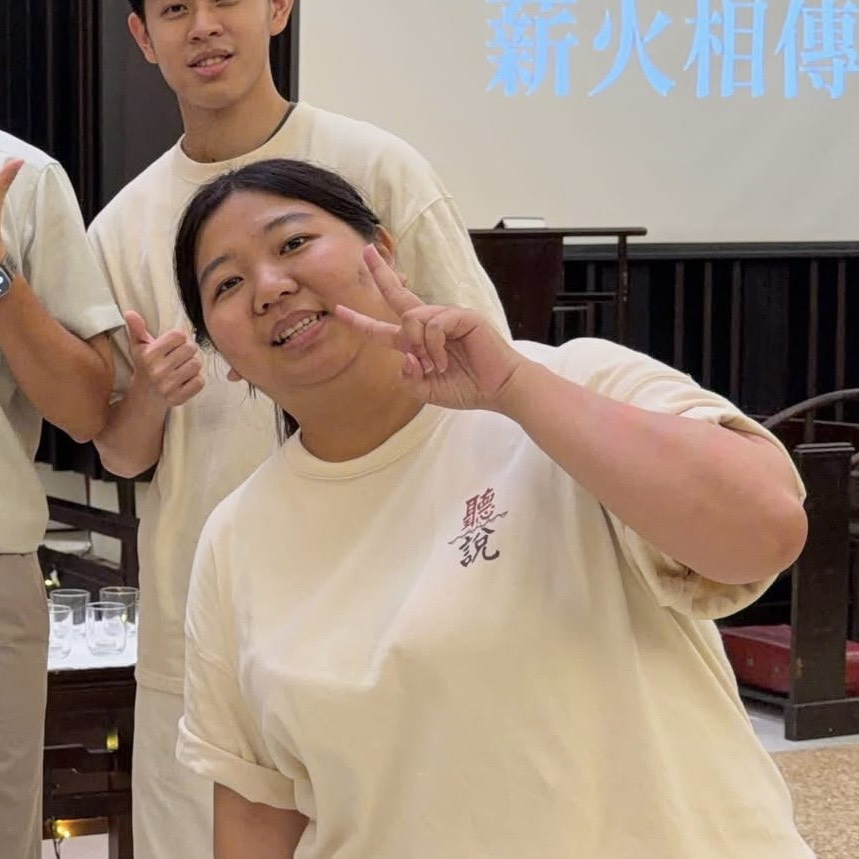
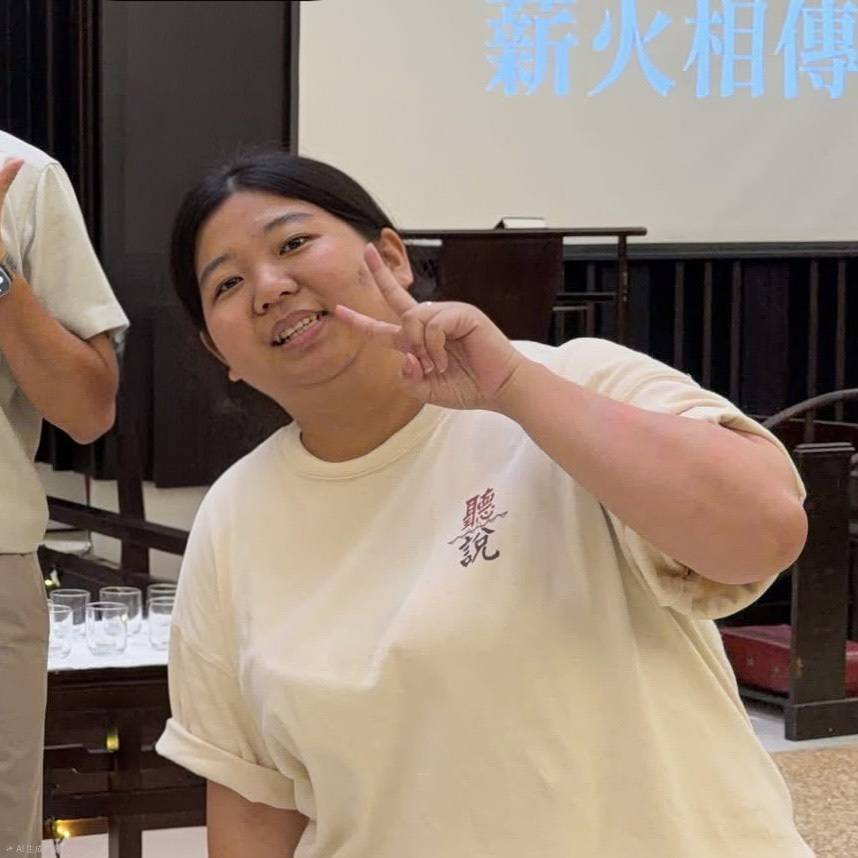
style: update theme colors and add image assets

diff --git a/styles.css b/styles.css
@@ -1,13 +1,14 @@
 :root {
-  --ink: #1c234f;
-  --muted: #69708d;
-  --paper: #f7f7ff;
-  --indigo: #4548d1;
-  --violet: #8458e7;
-  --pink: #ea759c;
-  --yellow: #ffd76e;
+  --ink: #0b2a4a;
+  --muted: #49677d;
+  --paper: #f7fbff;
+  --sky: #66c9f2;
+  --sky-deep: #2e9ed3;
+  --pink: #f5b8c8;
+  --yellow: #ffd86b;
+  --green: #bfe7c6;
   --white: #ffffff;
-  --line: rgba(28, 35, 79, 0.13);
+  --line: rgba(11, 42, 74, 0.14);
   --display: "Shippori Mincho", "Noto Serif TC", serif;
   --sans: "Noto Sans TC", system-ui, sans-serif;
 }
@@ -21,73 +22,73 @@ a { color: inherit; }
 .skip-link { position: fixed; top: 1rem; left: 1rem; z-index: 99; padding: 0.65rem 1rem; background: var(--ink); color: white; transform: translateY(-200%); }
 .skip-link:focus { transform: none; }
 
-.site-header { position: absolute; inset: 0 0 auto; z-index: 20; display: flex; justify-content: space-between; align-items: center; width: min(1180px, calc(100% - 3rem)); margin: 0 auto; padding: 1.4rem 0; border-bottom: 1px solid rgba(255,255,255,0.25); color: white; }
+.site-header { position: absolute; inset: 0 0 auto; z-index: 20; display: flex; justify-content: space-between; align-items: center; width: min(1180px, calc(100% - 3rem)); margin: 0 auto; padding: 1.4rem 0; border-bottom: 1px solid rgba(11,42,74,0.2); color: var(--ink); }
 .brand { font-size: 0.86rem; font-weight: 800; letter-spacing: 0.14em; text-decoration: none; }
 .brand span { color: var(--yellow); }
 nav { display: flex; gap: 2rem; }
 nav a { font-size: 0.78rem; font-weight: 700; text-decoration: none; }
-nav a:hover, nav a:focus-visible { color: var(--yellow); }
+nav a:hover, nav a:focus-visible { color: var(--ink); text-decoration: underline; text-decoration-color: var(--yellow); text-decoration-thickness: 3px; text-underline-offset: 0.35rem; }
 
-.hero { position: relative; min-height: 100svh; display: grid; place-items: center; overflow: hidden; color: white; background: linear-gradient(145deg, #252a71 0%, #5146c8 43%, #b55fbd 76%, #ee8297 100%); isolation: isolate; }
+.hero { position: relative; min-height: 100svh; display: grid; place-items: center; overflow: hidden; color: var(--ink); background: linear-gradient(145deg, #4bbbee 0%, var(--sky) 42%, var(--green) 75%, #ffe69b 100%); isolation: isolate; }
 .hero-layer, .hero-content, .hero-photo-wrap { transform: translate3d(0, var(--parallax-y, 0), 0); will-change: transform; }
 .hero-glow { position: absolute; z-index: -2; border-radius: 50%; filter: blur(5px); }
-.glow-one { width: min(60vw, 700px); aspect-ratio: 1; left: -18vw; top: -18vw; background: rgba(78,198,248,0.28); }
-.glow-two { width: min(44vw, 520px); aspect-ratio: 1; right: -8vw; bottom: -12vw; background: rgba(255,219,119,0.26); }
-.contour { position: absolute; z-index: -1; width: 46vw; aspect-ratio: 1; border: 1px solid rgba(255,255,255,0.22); border-radius: 47% 53% 60% 40% / 41% 49% 51% 59%; }
+.glow-one { width: min(60vw, 700px); aspect-ratio: 1; left: -18vw; top: -18vw; background: rgba(255,255,255,0.4); }
+.glow-two { width: min(44vw, 520px); aspect-ratio: 1; right: -8vw; bottom: -12vw; background: rgba(255,216,107,0.38); }
+.contour { position: absolute; z-index: -1; width: 46vw; aspect-ratio: 1; border: 1px solid rgba(11,42,74,0.16); border-radius: 47% 53% 60% 40% / 41% 49% 51% 59%; }
 .contour-one { left: -15vw; bottom: -25vw; }
 .contour-two { right: -12vw; top: -20vw; width: 38vw; }
 
 .hero-content { position: relative; z-index: 4; width: min(1060px, calc(100% - 3rem)); padding: 9rem 0 7rem; }
-.eyebrow { margin: 0 0 1rem; color: var(--pink); font-size: 0.69rem; font-weight: 800; letter-spacing: 0.23em; }
-.hero .eyebrow { color: var(--yellow); }
+.eyebrow { margin: 0 0 1rem; color: var(--ink); font-size: 0.69rem; font-weight: 800; letter-spacing: 0.23em; }
+.hero .eyebrow { color: var(--ink); }
 h1, h2, h3 { margin: 0; font-family: var(--display); font-weight: 700; line-height: 1.18; }
-h1 { position: relative; z-index: 2; width: fit-content; max-width: 100%; white-space: nowrap; font-size: clamp(3.5rem, 13vw, 10.5rem); letter-spacing: -0.08em; text-shadow: 0 18px 50px rgba(25,20,81,0.24); }
+h1 { position: relative; z-index: 2; width: fit-content; max-width: 100%; white-space: nowrap; font-size: clamp(3.5rem, 13vw, 10.5rem); letter-spacing: -0.08em; text-shadow: 0 18px 50px rgba(11,42,74,0.18); }
 h2 { font-size: clamp(2.6rem, 5.5vw, 5rem); letter-spacing: -0.05em; }
-.hero-subtitle { position: relative; z-index: 3; max-width: 40rem; margin: 2rem 0 0; color: rgba(255,255,255,0.88); font-size: clamp(1rem, 1.8vw, 1.25rem); font-weight: 500; line-height: 1.9; }
-.scroll-cue { position: relative; z-index: 4; display: inline-flex; gap: 1rem; align-items: center; margin-top: 3rem; padding-bottom: 0.35rem; border-bottom: 1px solid rgba(255,255,255,0.55); text-decoration: none; font-size: 0.8rem; font-weight: 700; }
+.hero-subtitle { position: relative; z-index: 3; max-width: 40rem; margin: 2rem 0 0; color: rgba(11,42,74,0.84); font-size: clamp(1rem, 1.8vw, 1.25rem); font-weight: 500; line-height: 1.9; }
+.scroll-cue { position: relative; z-index: 4; display: inline-flex; gap: 1rem; align-items: center; margin-top: 3rem; padding-bottom: 0.35rem; border-bottom: 1px solid rgba(11,42,74,0.48); text-decoration: none; font-size: 0.8rem; font-weight: 700; }
 .scroll-cue i { font-style: normal; animation: nudge 1.6s ease-in-out infinite; }
 @keyframes nudge { 50% { transform: translateY(5px); } }
-.hero-photo-wrap { position: absolute; z-index: 1; top: 15%; right: -3%; width: min(48vw, 640px); padding: 0.65rem; border-radius: 2rem; background: rgba(255,255,255,0.18); box-shadow: 0 40px 100px rgba(24,21,77,0.28); transform: translate3d(0, var(--parallax-y, 0), 0) rotate(3deg); backdrop-filter: blur(9px); }
+.hero-photo-wrap { position: absolute; z-index: 1; top: 15%; right: -3%; width: min(48vw, 640px); padding: 0.65rem; border-radius: 2rem; background: rgba(255,255,255,0.4); box-shadow: 0 40px 100px rgba(11,42,74,0.2); transform: translate3d(0, var(--parallax-y, 0), 0) rotate(3deg); backdrop-filter: blur(9px); }
 .hero-photo-wrap img { width: 100%; aspect-ratio: 5 / 4; border-radius: 1.5rem; object-fit: cover; opacity: 0.82; }
 
 .section-pad { padding: 8rem max(1.5rem, calc((100vw - 1180px) / 2)); }
-.participants { background: linear-gradient(180deg, #faf9ff 0%, #edf2ff 50%, #fff8f5 100%); }
+.participants { background: linear-gradient(180deg, var(--white) 0%, #eaf8ff 48%, #fff9e8 100%); }
 .participants-intro { display: grid; grid-template-columns: 1.15fr 0.85fr; gap: clamp(3rem, 10vw, 9rem); align-items: end; }
 .participants-intro > p { max-width: 29rem; margin: 0 0 0.6rem; color: var(--muted); }
 .participant-list { padding-bottom: 6rem; }
 .participant-pair { --pair-gap: clamp(1rem, 3vw, 2.4rem); min-height: 100svh; display: grid; grid-template-columns: repeat(2, minmax(0, 1fr)); gap: var(--pair-gap); align-items: center; padding: clamp(4rem, 8vh, 7rem) max(1rem, calc((100vw - 1240px) / 2)); }
-.participant-pair + .participant-pair { border-top: 1px solid rgba(69,72,209,0.08); }
-.participant-card { min-width: 0; height: clamp(370px, 56vh, 610px); display: grid; grid-template-columns: minmax(150px, 0.88fr) minmax(0, 1.12fr); overflow: hidden; border: 1px solid rgba(69,72,209,0.12); border-radius: clamp(1.1rem, 2vw, 2rem); background: rgba(255,255,255,0.72); box-shadow: 0 24px 70px rgba(57,57,126,0.11); backdrop-filter: blur(14px); }
+.participant-pair + .participant-pair { border-top: 1px solid rgba(46,158,211,0.14); }
+.participant-card { min-width: 0; height: clamp(370px, 56vh, 610px); display: grid; grid-template-columns: minmax(150px, 0.88fr) minmax(0, 1.12fr); overflow: hidden; border: 1px solid rgba(46,158,211,0.2); border-radius: clamp(1.1rem, 2vw, 2rem); background: rgba(255,255,255,0.84); box-shadow: 0 24px 70px rgba(11,42,74,0.1); backdrop-filter: blur(14px); }
 .participant-card:only-child { grid-column: 1 / -1; width: calc((100% - var(--pair-gap)) / 2); justify-self: center; }
-.participant-portrait { position: relative; min-width: 0; height: 100%; margin: 0; overflow: hidden; background: #dfe3ff; }
-.participant-portrait::after { content: ""; position: absolute; inset: 0; background: linear-gradient(180deg, transparent 58%, rgba(27,30,86,0.34)); pointer-events: none; }
+.participant-portrait { position: relative; min-width: 0; height: 100%; margin: 0; overflow: hidden; background: var(--green); }
+.participant-portrait::after { content: ""; position: absolute; inset: 0; background: linear-gradient(180deg, transparent 58%, rgba(11,42,74,0.38)); pointer-events: none; }
 .participant-portrait img { width: 100%; height: 110%; object-fit: cover; will-change: transform; }
 .participant-portrait span { position: absolute; z-index: 2; right: 0.85rem; bottom: 0.45rem; color: rgba(255,255,255,0.9); font-family: var(--display); font-size: clamp(2.8rem, 5vw, 5.2rem); line-height: 1; }
 .participant-copy { min-width: 0; display: flex; flex-direction: column; justify-content: center; padding: clamp(1.1rem, 2.7vw, 2.5rem); overflow-wrap: anywhere; }
 .participant-copy h3 { max-width: 100%; font-size: clamp(1.9rem, 3.5vw, 3.65rem); letter-spacing: -0.055em; overflow-wrap: anywhere; }
 .participant-copy p { max-width: 100%; margin: 1.25rem 0; color: var(--muted); font-size: clamp(0.78rem, 1.05vw, 1rem); line-height: 1.85; text-wrap: pretty; overflow-wrap: anywhere; }
-.participant-copy i { display: block; width: clamp(2.5rem, 5vw, 4rem); height: 3px; border-radius: 999px; background: linear-gradient(90deg, var(--indigo), var(--pink)); }
+.participant-copy i { display: block; width: clamp(2.5rem, 5vw, 4rem); height: 3px; border-radius: 999px; background: linear-gradient(90deg, var(--sky-deep), var(--pink), var(--yellow)); }
 .participant-pair:nth-child(3n) .participant-card:last-child { border-radius: 32% 1.2rem 1.2rem 1.2rem; }
-.load-error { margin: 0; padding: 5rem 1.5rem; text-align: center; color: #a13243; }
+.load-error { margin: 0; padding: 5rem 1.5rem; text-align: center; color: #8f3853; }
 
-.memories { overflow: hidden; color: white; background: linear-gradient(145deg, #1b214d, #3d347f 60%, #76458d); }
-.memories .eyebrow { color: var(--yellow); }
+.memories { overflow: hidden; color: var(--ink); background: linear-gradient(145deg, #dff5ff, var(--sky) 52%, var(--green) 78%, #fff1b8); }
+.memories .eyebrow { color: var(--ink); }
 .memories-heading { padding-bottom: 4rem; }
 .photo-marquee { overflow: hidden; padding: 1.2rem 0 5rem; }
 .photo-track { width: max-content; display: flex; gap: 1.25rem; animation: photos-scroll 38s linear infinite; will-change: transform; }
 .photo-marquee:hover .photo-track { animation-play-state: paused; }
 @keyframes photos-scroll { to { transform: translateX(calc(-50% - 0.625rem)); } }
-.memory-card { position: relative; width: clamp(270px, 34vw, 520px); margin: 0; overflow: hidden; border-radius: 1.25rem; background: rgba(255,255,255,0.1); }
+.memory-card { position: relative; width: clamp(270px, 34vw, 520px); margin: 0; overflow: hidden; border: 1px solid rgba(255,255,255,0.7); border-radius: 1.25rem; background: rgba(255,255,255,0.35); box-shadow: 0 18px 50px rgba(11,42,74,0.12); }
 .memory-card:nth-child(3n+2) { transform: translateY(1.2rem); }
 .memory-card img { width: 100%; aspect-ratio: 4 / 3; object-fit: cover; transition: transform 500ms ease; }
 .memory-card:hover img { transform: scale(1.035); }
-.memory-card figcaption { position: absolute; inset: auto 0 0; padding: 2.7rem 1.2rem 1rem; background: linear-gradient(transparent, rgba(19,21,61,0.82)); font-size: 0.84rem; font-weight: 700; }
+.memory-card figcaption { position: absolute; inset: auto 0 0; padding: 2.7rem 1.2rem 1rem; color: var(--white); background: linear-gradient(transparent, rgba(11,42,74,0.86)); font-size: 0.84rem; font-weight: 700; }
 .closing { display: flex; align-items: end; justify-content: space-between; gap: 2rem; padding-top: 7rem; }
-.closing > p:not(.eyebrow) { max-width: 37rem; margin: 0; color: rgba(255,255,255,0.75); font-family: var(--display); font-size: clamp(1.6rem, 3.5vw, 3rem); line-height: 1.55; }
-.closing a { flex: none; color: var(--yellow); font-size: 0.8rem; font-weight: 800; text-decoration: none; }
+.closing > p:not(.eyebrow) { max-width: 37rem; margin: 0; color: rgba(11,42,74,0.76); font-family: var(--display); font-size: clamp(1.6rem, 3.5vw, 3rem); line-height: 1.55; }
+.closing a { flex: none; color: var(--ink); font-size: 0.8rem; font-weight: 800; text-decoration: none; }
 
-footer { display: flex; justify-content: space-between; align-items: center; gap: 2rem; padding: 2rem max(1.5rem, calc((100vw - 1180px) / 2)); background: #111636; color: rgba(255,255,255,0.68); font-size: 0.75rem; letter-spacing: 0.08em; }
-footer strong { color: white; }
+footer { display: flex; justify-content: space-between; align-items: center; gap: 2rem; padding: 2rem max(1.5rem, calc((100vw - 1180px) / 2)); border-top: 1px solid var(--line); background: var(--white); color: rgba(11,42,74,0.7); font-size: 0.75rem; letter-spacing: 0.08em; }
+footer strong { color: var(--ink); }
 
 .reveal { opacity: 1; }
 
@@ -110,7 +111,7 @@ footer strong { color: white; }
 @media (max-width: 820px) {
   .hero-content { align-self: end; padding-bottom: 5rem; }
   .hero-photo-wrap { top: 13%; right: -18%; width: 82vw; opacity: 0.65; }
-  .hero-content::before { content: ""; position: absolute; z-index: -1; inset: 25% -5% -10%; background: linear-gradient(transparent, rgba(38,35,113,0.84)); filter: blur(20px); }
+  .hero-content::before { content: ""; position: absolute; z-index: -1; inset: 25% -5% -10%; background: linear-gradient(transparent, rgba(255,255,255,0.72)); filter: blur(20px); }
   .participants-intro { grid-template-columns: 1fr; gap: 2rem; }
   .closing { display: grid; }
 }

diff --git a/index.html b/index.html
@@ -5,7 +5,7 @@
   <meta charset="UTF-8" />
   <meta name="viewport" content="width=device-width, initial-scale=1" />
   <meta name="description" content="逃離日常凝聚營：認識每一位參加者，收藏一起跨出的每一步。" />
-  <meta name="theme-color" content="#22275f" />
+  <meta name="theme-color" content="#66c9f2" />
   <title>逃離日常｜凝聚營回顧</title>
   <link rel="pre  connect" href="https://fonts.googleapis.com" />
   <link rel="preconnect" href="https://fonts.gstatic.com" crossorigin />
@@ -46,8 +46,6 @@
       <div class="hero-photo-wrap" data-depth="-0.055" aria-hidden="true">
         <img data-site-cover src="img/cover.svg" alt="" />
       </div>
-      <div class="hero-count" data-depth="0.12" aria-hidden="true"><span
-          data-participant-count>12</span><small>PEOPLE</small></div>
     </section>
 
     <section class="participants" id="participants" aria-labelledby="participants-title">
